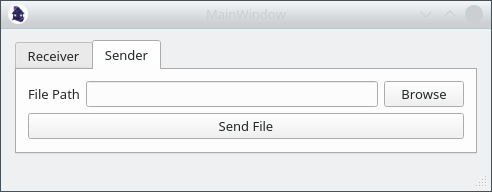
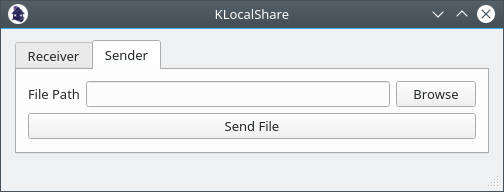
- Main window title is changed to KLocalShare. - SS updated.

diff --git a/src/mainwindow.py b/src/mainwindow.py
@@ -12,6 +12,9 @@ class Ui_MainWindow(object):
     def setupUi(self, MainWindow):
         MainWindow.setObjectName("MainWindow")
         MainWindow.resize(459, 151)
+        icon = QtGui.QIcon()
+        icon.addPixmap(QtGui.QPixmap("data/appicon.png"), QtGui.QIcon.Normal, QtGui.QIcon.Off)
+        MainWindow.setWindowIcon(icon)
         self.centralWidget = QtWidgets.QWidget(MainWindow)
         self.centralWidget.setObjectName("centralWidget")
         self.gridLayout_2 = QtWidgets.QGridLayout(self.centralWidget)
@@ -70,7 +73,7 @@ class Ui_MainWindow(object):
 
     def retranslateUi(self, MainWindow):
         _translate = QtCore.QCoreApplication.translate
-        MainWindow.setWindowTitle(_translate("MainWindow", "MainWindow"))
+        MainWindow.setWindowTitle(_translate("MainWindow", "KLocalShare"))
         self.label_2.setText(_translate("MainWindow", "File Path"))
         self.btn_receiveSaveDir.setText(_translate("MainWindow", "Save to directory..."))
         self.btn_receive.setText(_translate("MainWindow", "Receive File"))
